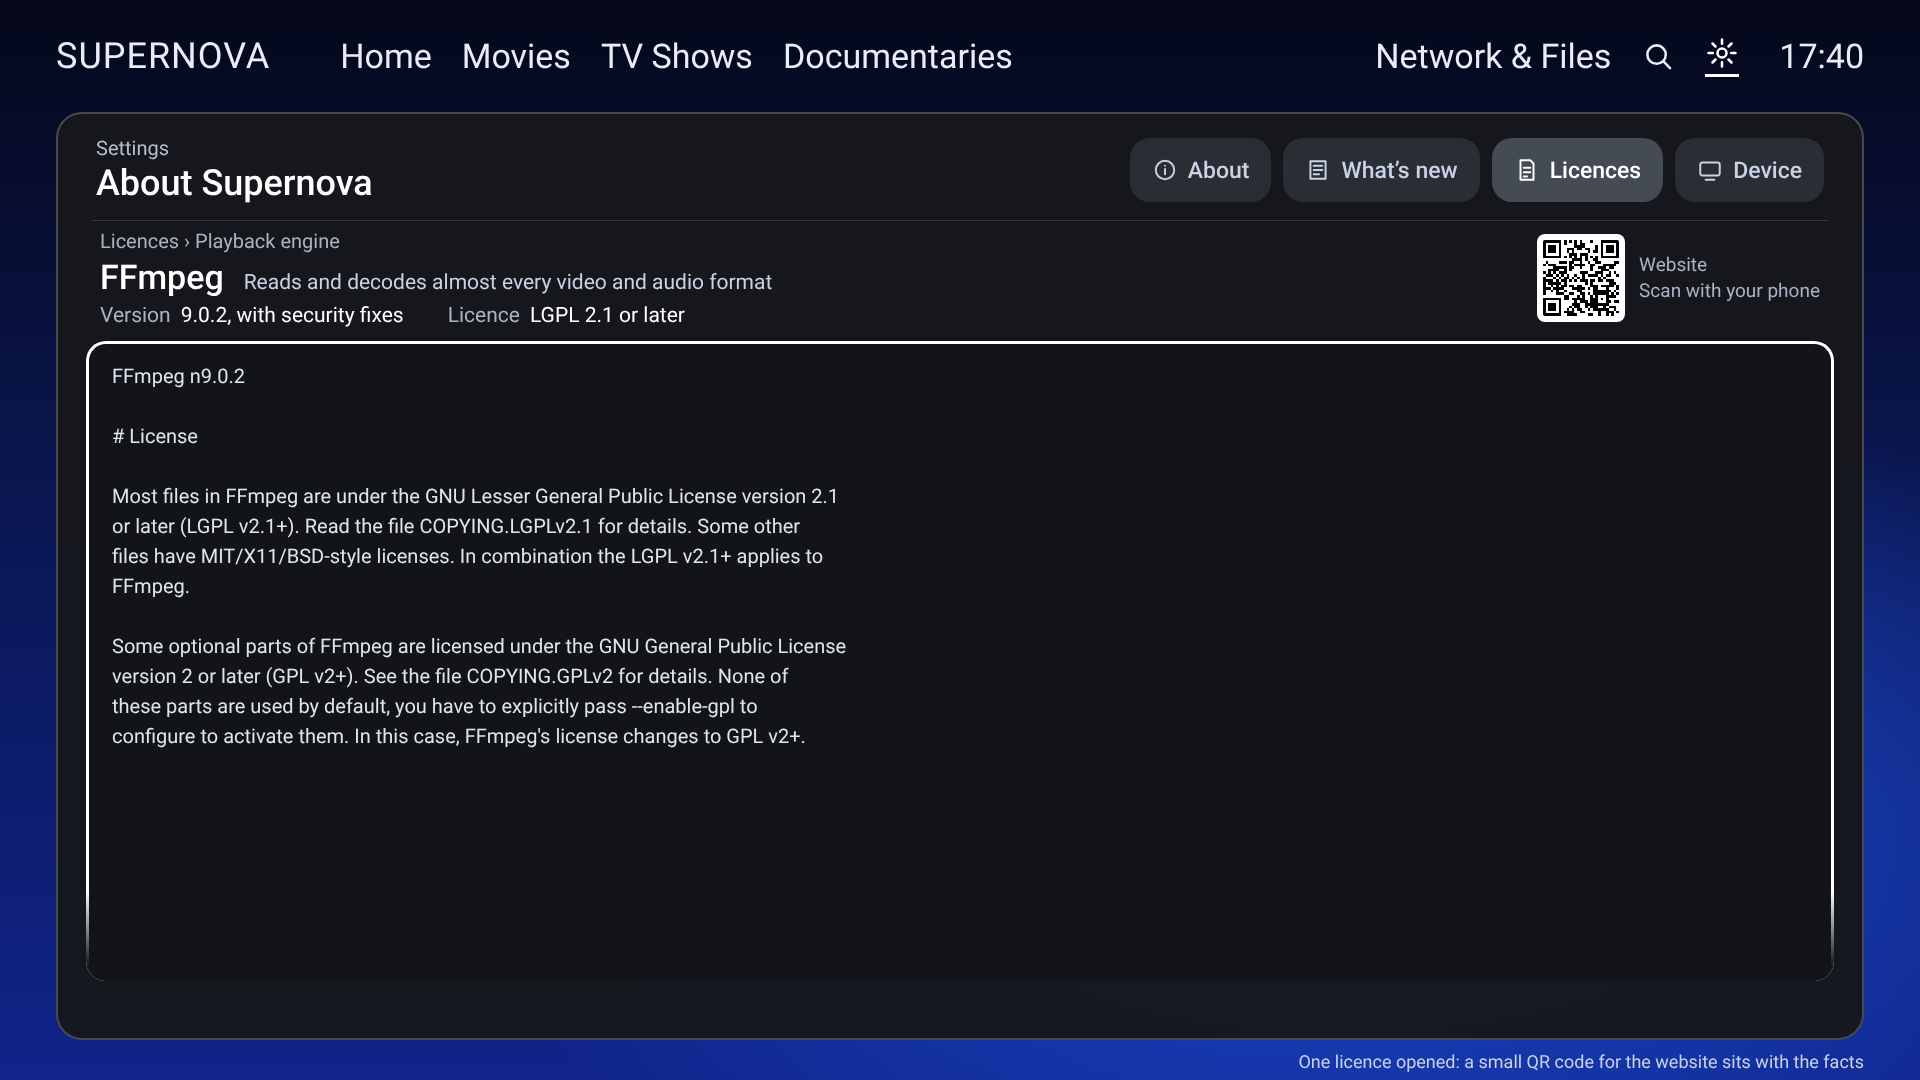
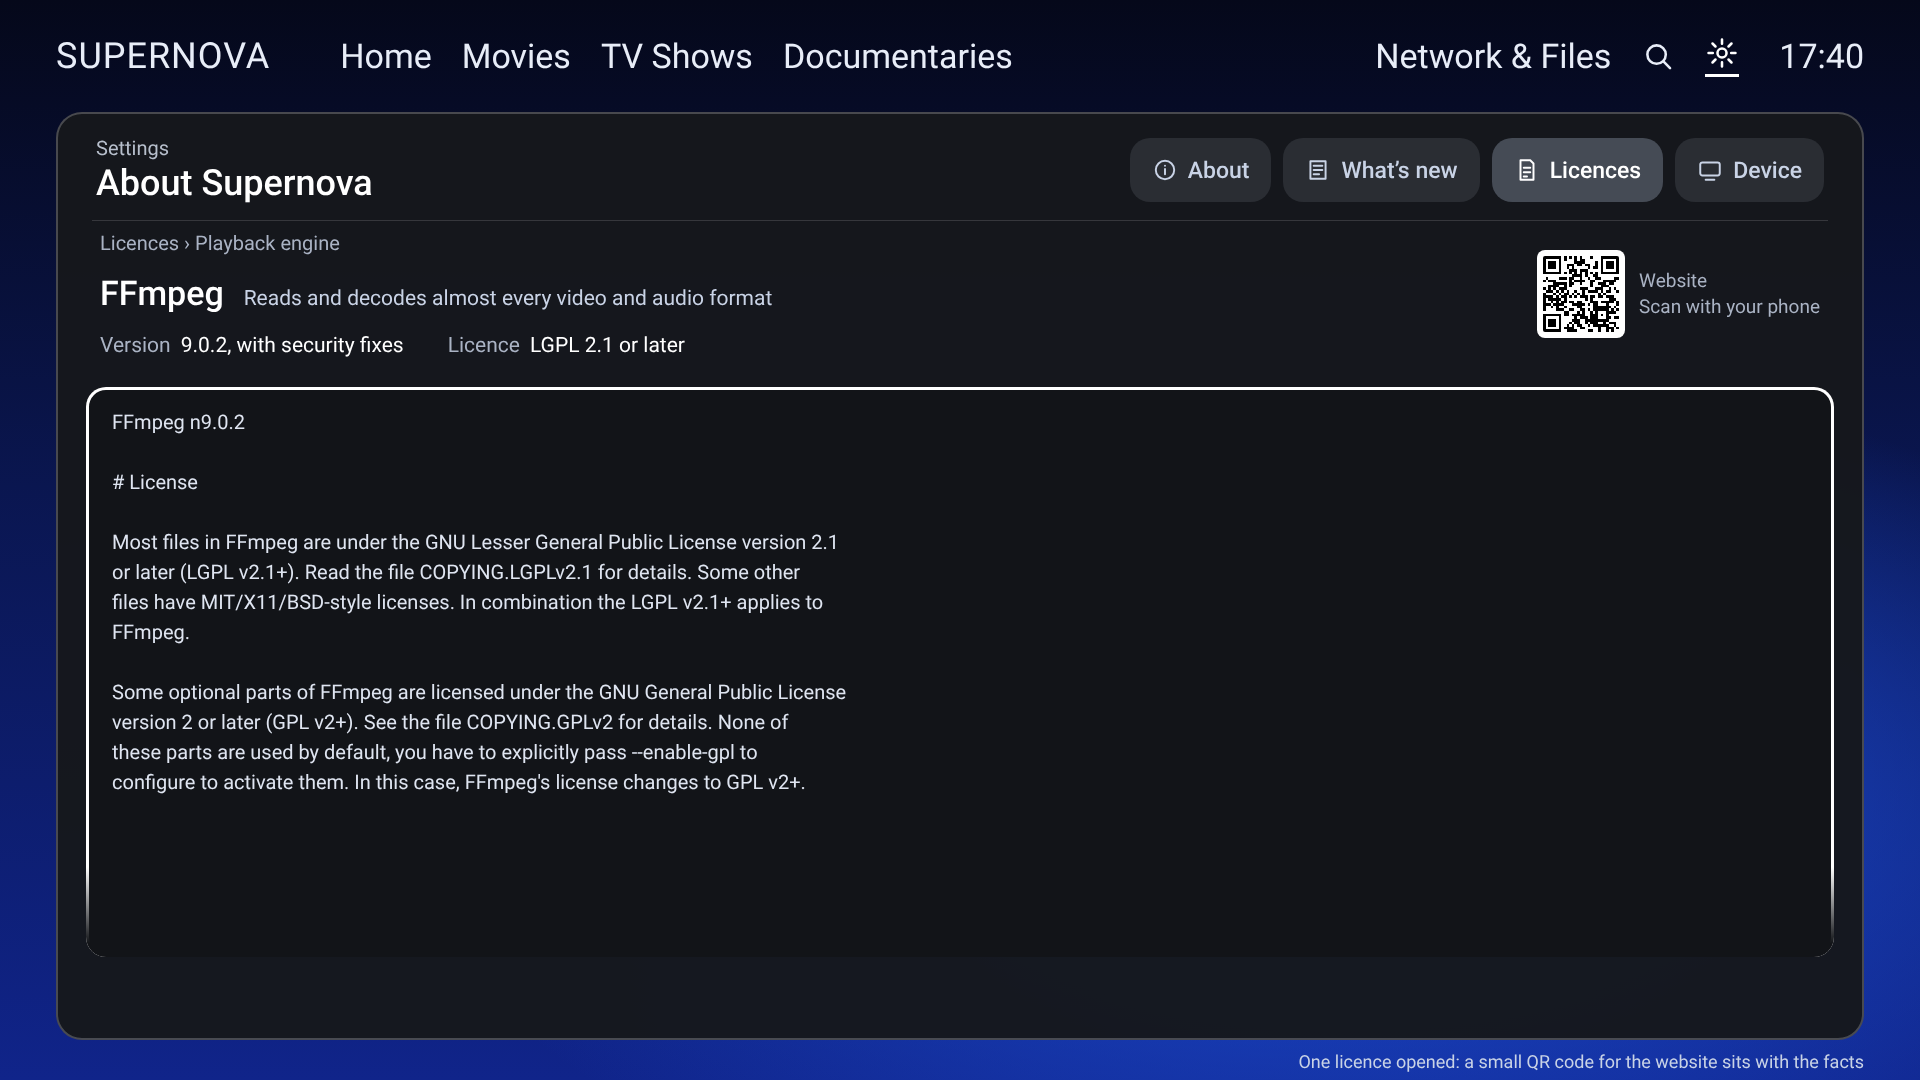
Chapters list mock-ups; licence header spacing; notes on OMDb lookups and TMDB key
Claude-Session: https://claude.ai/code/session_01FtDZqamY6pdaUKwc7fqgiA

Changed region(s): [[0.0312, 0.2139, 0.4375, 0.7333], [0.7812, 0.2139, 0.9375, 0.3361], [0.9375, 0.3361, 0.9688, 0.3667]]

diff --git a/docs/design/proposals/chapters/render.js b/docs/design/proposals/chapters/render.js
@@ -1,0 +1,40 @@
+// Proposal (0.156): Chapters list inside the Playback Settings side panel. Run: FONT_DIR=<roboto woff2 dir> node render.js
+const fs = require('fs'), path = require('path'), { chromium } = require('playwright');
+const out = __dirname, fontDir = process.env.FONT_DIR;
+const font = w => `@font-face{font-family:R;font-weight:${w};src:url(data:font/woff2;base64,${fs.readFileSync(path.join(fontDir, `roboto-latin-${w}-normal.woff2`)).toString('base64')}) format('woff2')}`;
+const P = { cc: '<rect x="3" y="5" width="18" height="14" rx="2"/><path d="M10 10.2a2.2 2.2 0 1 0 0 3.6M16.5 10.2a2.2 2.2 0 1 0 0 3.6"/>',
+  audio: '<path d="M4 9h4l5-4v14l-5-4H4z"/><path d="M16 9a4 4 0 0 1 0 6"/>', play: '<path d="M8 5v14l11-7z"/>',
+  chap: '<path d="M4 6h16M4 12h16M4 18h10"/><path d="M18 16l3 2-3 2z"/>', speed: '<path d="M5 18a8 8 0 1 1 14 0"/><path d="M12 13l4-4"/>',
+  ratio: '<rect x="3" y="6" width="18" height="12" rx="2"/><path d="M7 10v4M17 10v4"/>', bell: '<path d="M6 16V11a6 6 0 0 1 12 0v5l2 2H4z"/><path d="M10 20a2 2 0 0 0 4 0"/>', moon: '<path d="M19 14.5A7.5 7.5 0 0 1 9.5 5a7.5 7.5 0 1 0 9.5 9.5z"/>',
+  chev: '<path d="M9 6l6 6-6 6"/>', back: '<path d="M15 6l-6 6 6 6"/>', now: '<path d="M8 5v14l11-7z"/>' };
+const ic = (k, s = 28) => `<svg width="${s}" height="${s}" viewBox="0 0 24 24" fill="none" stroke="currentColor" stroke-width="1.8" stroke-linecap="round" stroke-linejoin="round">${P[k]}</svg>`;
+const tabs = `<div class="tabs"><div class="tab">Audio</div><div class="tab">Subtitles</div><div class="tab">Video</div><div class="tab open">More</div></div>`;
+const row = (k, t, v, f) => `<div class="row${f ? ' focus' : ''}">${ic(k)}<span class="lbl">${t}</span><span class="val">${v}</span></div>`;
+const chapters = [['Chapter 1', '0:00', 0], ['Chapter 2', '2:14', 1], ['Chapter 3', '11:40', 0], ['Chapter 4', '22:05', 0], ['Chapter 5', '33:48', 0], ['Chapter 6', '44:12', 0]];
+const scene = `<div class="scene"></div><div class="shade"></div>`;
+const playbackTab = `<div class="panel">${tabs}<div class="gap"></div>` +
+  row('chap', 'Chapters', `Chapter 2 of 6 ${ic('chev', 22)}`, true) + `<div class="h"><span>Playback</span><i></i></div>` + row('speed', 'Playback Speed', '1.0×') + row('play', 'Play mode', `${ic('chev', 22)}`) + row('bell', 'Notifications', `${ic('chev', 22)}`) + `</div>`;
+const list = `<div class="panel">${tabs}<div class="h back">${ic('back', 22)}<span>Chapters</span><i></i></div>` +
+  chapters.map(([n, t, cur], i) => `<div class="crow${i === 2 ? ' focus' : ''}${cur ? ' cur' : ''}"><span class="cn">${cur ? ic('now', 20) : ''}</span><span class="lbl">${n}</span><span class="ct">${t}</span></div>`).join('') +
+  `</div>`;
+const hud = `<div class="hud"><div class="title">Dark Matter · S2 E10</div><div class="bar"><div class="fill" style="width:9%"></div>${[2.14, 11.4, 22.05, 33.8, 44.2].map(m => `<i style="left:${m / 50 * 100}%"></i>`).join('')}</div><div class="times"><span>4:32</span><span>50:06</span></div></div>`;
+const shots = [['01-playback-tab.png', playbackTab, 'More tab: a Chapters row at the top, only when the video has chapters; it shows where you are'],
+  ['02-chapter-list.png', list, 'OK opens the list inside the panel: name and start time, the current chapter marked, OK jumps']];
+const css = `${font(400)}${font(500)}*{box-sizing:border-box;margin:0}body{width:1920px;height:1080px;overflow:hidden;font-family:R;color:#F4F6FB;background:#000;position:relative}
+.scene{position:absolute;inset:0;background:radial-gradient(ellipse 40% 50% at 35% 45%,rgba(120,150,190,.55),transparent 70%),linear-gradient(120deg,#1c2a3a 0%,#0d141c 55%,#05070a 100%)}
+.shade{position:absolute;inset:0;background:linear-gradient(270deg,rgba(0,0,0,.55) 0%,rgba(0,0,0,0) 45%)}
+.hud{position:absolute;left:80px;right:740px;bottom:70px}.hud .title{font-size:30px;font-weight:500;margin-bottom:18px}
+.bar{position:relative;height:6px;border-radius:3px;background:rgba(255,255,255,.3)}.fill{height:100%;border-radius:3px;background:#2fb7d8}.bar i{position:absolute;top:-3px;width:3px;height:12px;background:#fff;border-radius:1px}
+.times{display:flex;justify-content:space-between;font-size:22px;margin-top:10px;color:#dfe5f1}
+.panel{position:absolute;right:48px;top:48px;width:640px;border-radius:26px;padding:26px 26px 22px;background:rgba(22,24,28,.97);border:2px solid rgba(255,255,255,.22)}
+.tabs{display:flex;gap:16px;margin-bottom:6px}.tab{flex:1;height:72px;padding:0 6px;display:flex;align-items:center;justify-content:center;gap:10px;font-size:24px;font-weight:500;border-radius:24px;background:#2a2d33}.tab.open{background:#3a3e46}
+.h{display:flex;align-items:center;gap:14px;font-size:20px;margin:18px 6px 4px;color:#b7bfcc}.h i{flex:1;height:1px;background:rgba(255,255,255,.18)}.h.back svg{color:#b7bfcc}
+.row,.crow{display:flex;align-items:center;gap:16px;height:74px;border-radius:24px;padding:0 16px;font-size:24px;font-weight:500}.focus{box-shadow:inset 0 0 0 3px #fff}
+.lbl{flex:1;white-space:nowrap}.val{display:flex;align-items:center;gap:6px;font-weight:400;font-size:23px;color:#dfe5f1}.val svg{color:#8f98a8}
+.cn{width:24px;display:flex;color:#5aa9ff}.crow.cur .lbl{color:#5aa9ff}.ct{font-weight:400;font-size:23px;color:#c9d3e6;font-variant-numeric:tabular-nums}
+.gap{height:14px}.label{position:absolute;right:48px;bottom:10px;font-size:18px;color:#c9d3e6}`;
+(async () => { const b = await chromium.launch(); const t = await b.newPage({ viewport: { width: 1920, height: 1080 } });
+  for (const [f, body, label] of shots) {
+    await t.setContent(`<html><head><style>${css}</style></head><body>${scene}${hud}${body}<div class="label">${label}</div></body></html>`, { waitUntil: 'load' });
+    await t.evaluate(() => document.fonts.ready); await t.screenshot({ path: path.join(out, f) }); }
+  await b.close(); })();

diff --git a/docs/design/proposals/settings/about.js b/docs/design/proposals/settings/about.js
@@ -151,13 +151,13 @@ body{width:1920px;height:1080px;overflow:hidden;font-family:R;color:#fff;positio
 .hfade{position:absolute;left:0;right:0;bottom:0;height:90px;background:linear-gradient(0deg,#16181d 15%,rgba(22,24,29,0))}.hfade.top{top:0;bottom:auto;background:linear-gradient(180deg,#16181d 15%,rgba(22,24,29,0))}
 .hd{flex:1;border-left:1px solid rgba(255,255,255,.12);padding:14px 0 0 32px;position:relative}.hdv{font-size:40px;font-weight:500}.hdd{font-size:21px;color:#aab3c4;margin:4px 0 18px}.hd .ri{font-size:23px;margin:10px 0 0}
 .hcount{position:absolute;left:32px;bottom:10px;font-size:19px;color:#8f98a8}
-.lc{display:flex;align-items:center;gap:30px;margin:4px 14px 14px}.lcl{flex:1}.crumb2.i{margin:0 0 4px}.lcn{display:flex;align-items:baseline;gap:20px}.lcn b{font-size:34px;font-weight:500}.lcn span{font-size:21px;color:#c9d3e6}.lcf{display:flex;gap:44px;font-size:21px;margin-top:6px}.lcf i{font-style:normal;color:#aab3c4;margin-right:10px}.lcq{display:flex;align-items:center;gap:14px}.lcq svg{background:#fff;padding:6px;border-radius:8px;box-sizing:content-box}.lcq span{font-size:19px;color:#aab3c4;line-height:1.35}
+.lc{display:flex;align-items:center;gap:30px;margin:10px 14px 30px}.lcl{flex:1}.crumb2.i{margin:0 0 18px}.lcn{display:flex;align-items:baseline;gap:20px}.lcn b{font-size:34px;font-weight:500}.lcn span{font-size:21px;color:#c9d3e6}.lcf{display:flex;gap:44px;font-size:21px;margin-top:20px}.lcf i{font-style:normal;color:#aab3c4;margin-right:10px}.lcq{display:flex;align-items:center;gap:14px}.lcq svg{background:#fff;padding:6px;border-radius:8px;box-sizing:content-box}.lcq span{font-size:19px;color:#aab3c4;line-height:1.35}
 .crumb2{font-size:20px;color:#aab3c4;margin:6px 14px 4px}
 .cr{border-radius:20px;padding:14px 22px;margin-bottom:4px}.cr.f{box-shadow:inset 0 0 0 3px #fff}.crn{display:flex;align-items:baseline;gap:16px}.crn b{font-size:25px;font-weight:500}.crn span{font-size:20px;color:#aab3c4}.crt{font-size:21px;color:#dfe5f1;margin-top:6px;line-height:1.4;max-width:1500px}
 .disc{font-size:19px;color:#8f98a8;margin:14px 22px}
 .lh{margin:10px 14px 16px}.qr{position:absolute;right:0;top:-6px;display:flex;flex-direction:column;align-items:center;gap:8px}.qr svg{background:#fff;padding:12px;border-radius:14px;box-sizing:content-box}.qr span{font-size:18px;color:#aab3c4}.hero.sm{margin:6px 14px 10px}.hero.sm .logo{width:96px;height:96px;font-size:52px;border-radius:24px}.hero.sm .an{font-size:34px}.cr.sm{padding:10px 22px;margin-bottom:0}.lhn{font-size:38px;font-weight:500}.lhs{font-size:22px;color:#c9d3e6;margin-top:4px}
 .lfacts{display:flex;gap:48px;align-items:center;margin:18px 0 0;font-size:22px}.qrw{display:flex;align-items:center}.qrw svg{background:#fff;padding:6px;border-radius:8px;box-sizing:content-box;flex:none}.qrw em{font-style:normal;font-size:19px;color:#aab3c4;margin-left:14px}.sr{display:flex;flex-wrap:wrap;align-items:baseline;gap:6px 18px;padding:12px 22px;border-radius:18px}.sr.f{box-shadow:inset 0 0 0 3px #fff}.sr b{font-size:24px;font-weight:500}.sr span{font-size:21px;color:#c9d3e6}.srt{width:100%;font-size:20px;color:#aab3c4}.lfacts i{font-style:normal;color:#aab3c4;margin-right:12px}
-.ltext{position:relative;border-radius:20px;background:#121418;margin:8px 0 0;height:640px;overflow:hidden;padding:20px 26px}.ltext.f{box-shadow:inset 0 0 0 3px #fff}.ltext pre{font-family:R;font-size:20px;line-height:1.5;color:#dfe5f1;white-space:pre-wrap;margin:0}.ltext .hfade{background:linear-gradient(0deg,#121418 15%,rgba(18,20,24,0))}
+.ltext{position:relative;border-radius:20px;background:#121418;margin:8px 0 0;height:570px;overflow:hidden;padding:20px 26px}.ltext.f{box-shadow:inset 0 0 0 3px #fff}.ltext pre{font-family:R;font-size:20px;line-height:1.5;color:#dfe5f1;white-space:pre-wrap;margin:0}.ltext .hfade{background:linear-gradient(0deg,#121418 15%,rgba(18,20,24,0))}
 .label{z-index:20;position:absolute;right:56px;bottom:8px;font-size:18px;color:#c9d3e6}`;
 (async () => { const b = await chromium.launch(); const t = await b.newPage({ viewport: { width: 1920, height: 1080 } });
   for (const [f, body, label] of shots) {

diff --git a/docs/0.155/OWNER_NOTES.md b/docs/0.155/OWNER_NOTES.md
@@ -514,3 +514,11 @@ Codex's branch `codex/0155-code-2026-11-04` (DP-01…DP-07, TV-only stages). **N
   (GitHub secret, never in the code), so ratings just work like TMDB — fine while the owner is the only user;
   (2) MDBList, which adds Letterboxd and Trakt scores but also needs a key; (3) Trakt's own score and TMDB's score need
   no extra key but are not IMDb/Rotten Tomatoes/Metacritic. No service gives those three without a key.
+- **Mock-ups** `docs/design/proposals/chapters/01`–`02`: a Chapters row at the top of the player panel's More tab
+  ("Chapter 2 of 6"), opening the list inside the panel: name and start time, the playing chapter marked in blue,
+  OK jumps. Awaiting review.
+- Licence header spacing loosened (owner: too tight) — `32`.
+- **OMDb lookups (owner question):** one lookup each time a Details page opens (`PreviewDetailsData.java:236–240`),
+  not per title added; nothing is kept, so reopening the same title looks it up again. Proposal: remember ratings for a
+  week per title.
+- **TMDB key (owner question):** NOVA's own key, carried over in `aos-MediaLib/res/values/donottranslate.xml`.
